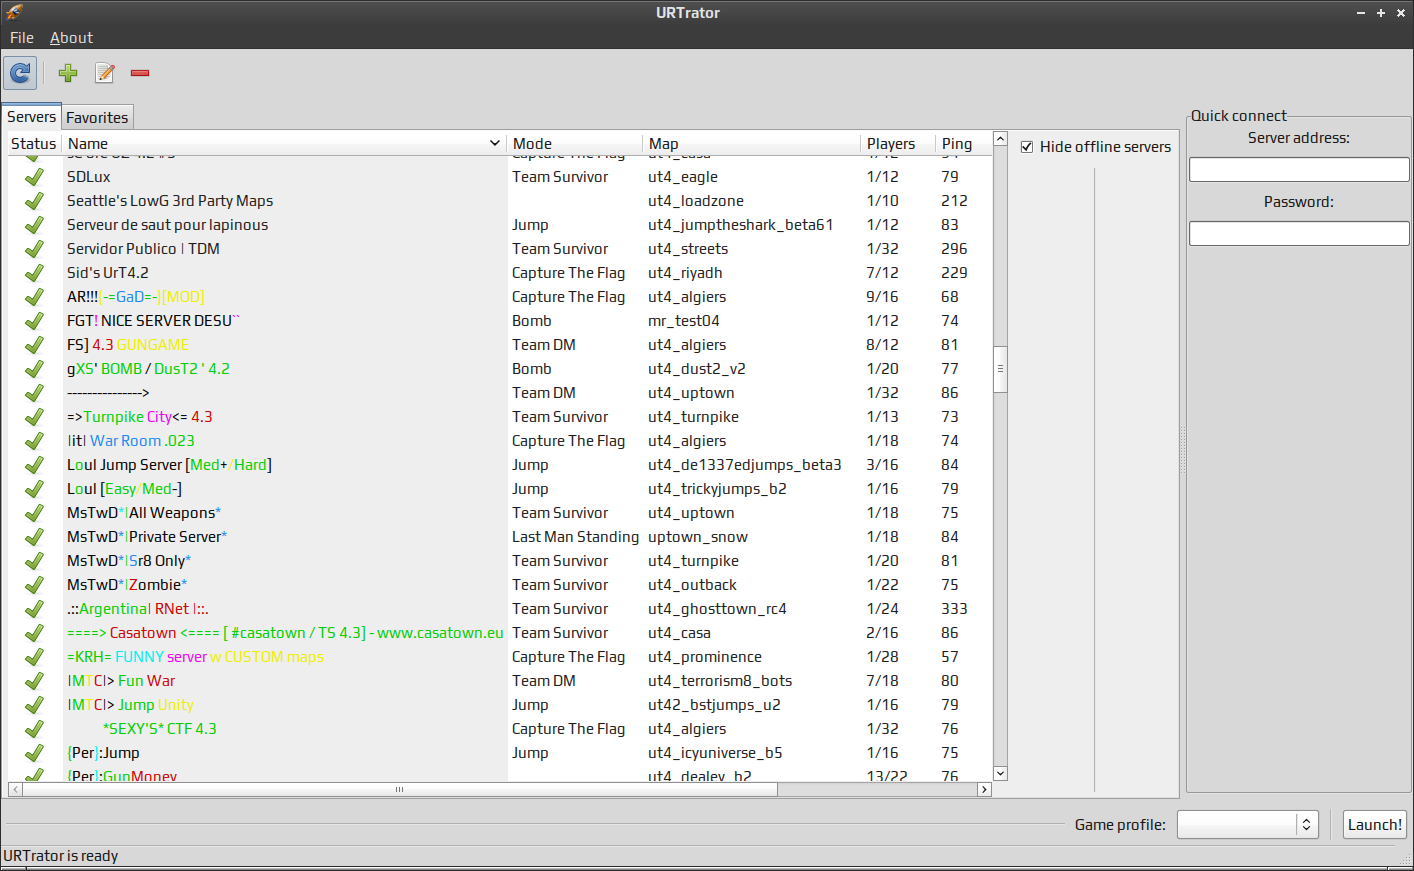
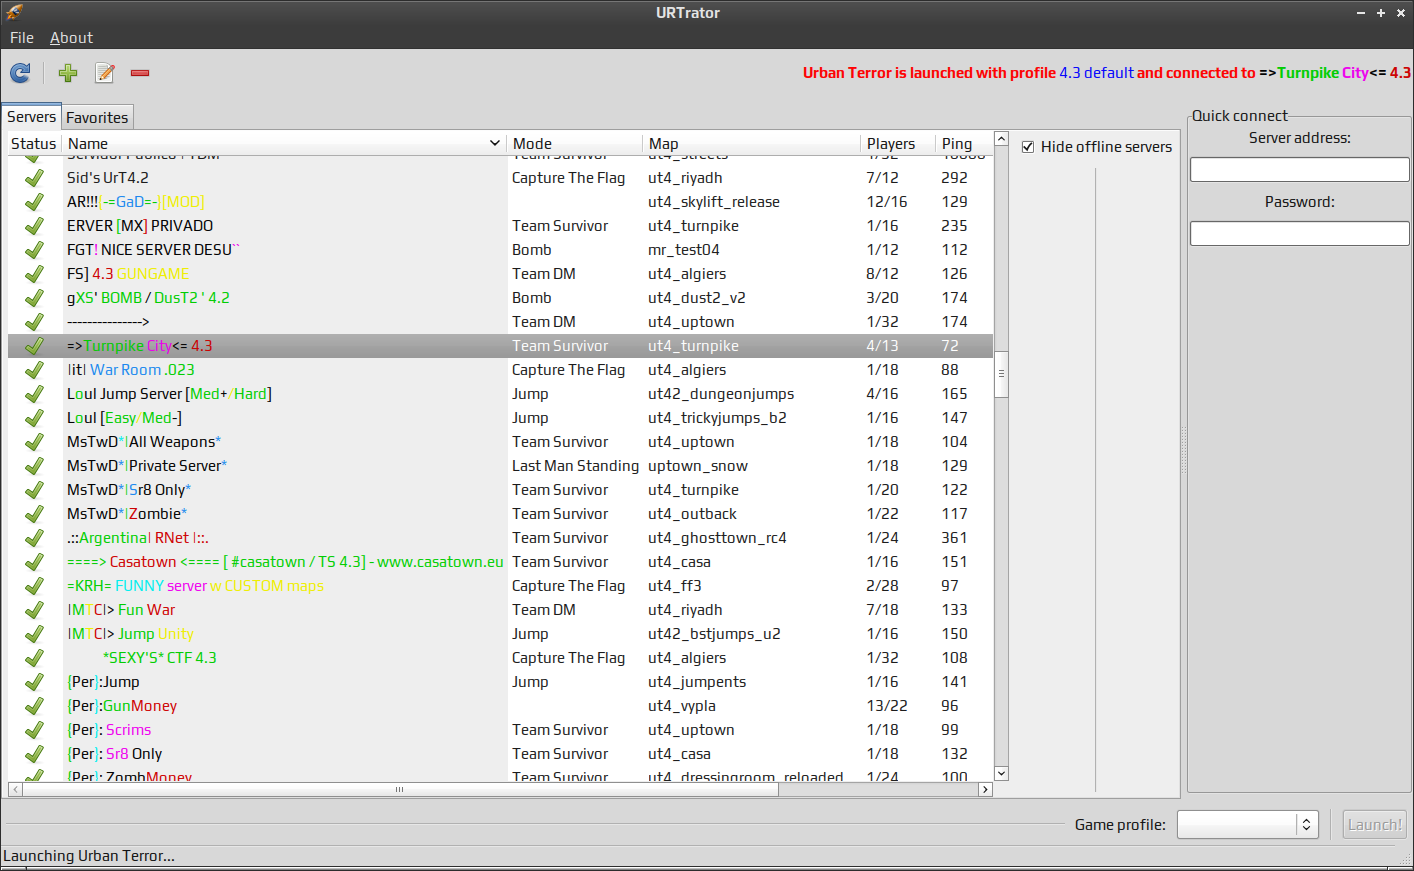
Show server name we connected in toolbar's label.
Also updated screenshot to show how it looks like.

diff --git a/ui/mainwindow.go b/ui/mainwindow.go
@@ -893,8 +893,12 @@ func (m *MainWindow) launchGame() error {
     }
 
     // Hey, we're ok here! :) Launch Urban Terror!
+    // Crear server name from "<markup></markup>" things.
+    srv_name_for_label := string([]byte(server_name)[8:len(server_name)-9])
+    fmt.Println(srv_name_for_label)
+    // Show great coloured label.
     m.statusbar.Push(m.statusbar_context_id, "Launching Urban Terror...")
-    m.toolbar_label.SetMarkup("<markup><span foreground=\"red\" font_weight=\"bold\">Urban Terror is launched with profile </span><span foreground=\"blue\">" + profile[0].Name + "</span> <span foreground=\"red\" font_weight=\"bold\">and connected to </span><span foreground=\"orange\" font_weight=\"bold\">" + srv_address + "</span></markup>")
+    m.toolbar_label.SetMarkup("<markup><span foreground=\"red\" font_weight=\"bold\">Urban Terror is launched with profile </span><span foreground=\"blue\">" + profile[0].Name + "</span> <span foreground=\"red\" font_weight=\"bold\">and connected to </span><span foreground=\"orange\" font_weight=\"bold\">" + srv_name_for_label + "</span></markup>")
     m.launch_button.SetSensitive(false)
     // ToDo: handling server passwords.
     ctx.Launcher.Launch(&profile[0], srv_address, "", m.unlockInterface)
